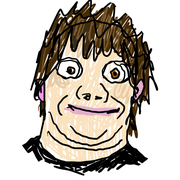
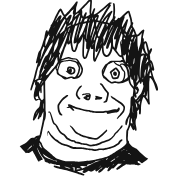
optimisation/jpeg-wepb/png-svg

diff --git a/art-site/src/data/paintings.ts b/art-site/src/data/paintings.ts
@@ -18,33 +18,33 @@ export type PaintingType = {
 };
 
 export const paintingList: PaintingType[] = [
-  { id: 1, title: "OBHOHOCHISHSYA", width: 90, height: 80, year: 2023, date: "29.10.2023", priceUAH: 20500, priceEUR: 400, available: true, images: ["/paintings/full/a.jpg", "/paintings/full/a-close-cc.jpg", "/paintings/full/a-room.jpg", "/paintings/full/a-live.jpg"] },
-  { id: 2, title: "DISKOTEKA", width: 70, height: 80, year: 2024, date: "02.09.2024", priceUAH: 20500, priceEUR: 400, available: true, images: ["/paintings/full/b.jpg", "/paintings/full/b-close-cc.jpg", "/paintings/full/b-room.jpg", "/paintings/full/b-me.jpg"] },
-  { id: 3, title: "HOMECOMING", width: 80, height: 100, priceUAH: 25500, priceEUR: 500, available: true, images: ["/paintings/full/c.jpg", "/paintings/full/c-closeB1-cc.jpg", "/paintings/full/c-closeB2-cc.jpg", "/paintings/full/c-room2.jpg"] },
-  { id: 4, title: "GOBLIN", width: 40, height: 50, year: 2026, date: "11.10.2026", priceUAH: 9000, priceEUR: 175, available: true, images: ["/paintings/full/d.jpg", "/paintings/full/d-closeB.jpg", "/paintings/full/d-room.jpg"] },
-  { id: 5, title: "MAYDANCHIK", width: 40, height: 60, year: 2025, date: "12.04.2025", priceUAH: 9500, priceEUR: 190, available: true, images: ["/paintings/full/e.jpg", "/paintings/full/e-close1-cc.jpg", "/paintings/full/e-close2-cc.jpg", "/paintings/full/e-room.jpg"] },
-  { id: 6, title: "THE HOST", width: 30, height: 40, year: 2023, date: "21.06.2023", priceUAH: 5000, priceEUR: 100, available: true, images: ["/paintings/full/f2.jpg", "/paintings/full/f2-closeB-cc.jpg", "/paintings/full/f2-room.jpg"] },
-  { id: 7, title: "SILENT HEAVEN", width: 60, height: 85, year: 2025, date: "26.04.2025", priceUAH: 20500, priceEUR: 400, available: true, images: ["/paintings/full/g.jpg", "/paintings/full/g-close-cc.jpg", "/paintings/full/g-room.jpg"] },
-  { id: 8, title: "RUSH HOUR", width: 90, height: 70, year: 2026, date: "10.11.2026", priceUAH: 19500, priceEUR: 380, available: true, images: ["/paintings/full/h2.jpg", "/paintings/full/h2-room.jpg", "/paintings/full/h2-me.jpg"] },
+  { id: 1, title: "OBHOHOCHISHSYA", width: 90, height: 80, year: 2023, date: "29.10.2023", priceUAH: 20500, priceEUR: 400, available: true, images: ["/paintings/full/a.webp", "/paintings/full/a-close-cc.webp", "/paintings/full/a-room.webp", "/paintings/full/a-live.webp"] },
+  { id: 2, title: "DISKOTEKA", width: 70, height: 80, year: 2024, date: "02.09.2024", priceUAH: 20500, priceEUR: 400, available: true, images: ["/paintings/full/b.webp", "/paintings/full/b-close-cc.webp", "/paintings/full/b-room.webp", "/paintings/full/b-me.webp"] },
+  { id: 3, title: "HOMECOMING", width: 80, height: 100, priceUAH: 25500, priceEUR: 500, available: true, images: ["/paintings/full/c.webp", "/paintings/full/c-closeB1-cc.webp", "/paintings/full/c-closeB2-cc.webp", "/paintings/full/c-room2.webp"] },
+  { id: 4, title: "GOBLIN", width: 40, height: 50, year: 2026, date: "11.10.2026", priceUAH: 9000, priceEUR: 175, available: true, images: ["/paintings/full/d.webp", "/paintings/full/d-closeB.webp", "/paintings/full/d-room.webp"] },
+  { id: 5, title: "MAYDANCHIK", width: 40, height: 60, year: 2025, date: "12.04.2025", priceUAH: 9500, priceEUR: 190, available: true, images: ["/paintings/full/e.webp", "/paintings/full/e-close1-cc.webp", "/paintings/full/e-close2-cc.webp", "/paintings/full/e-room.webp"] },
+  { id: 6, title: "THE HOST", width: 30, height: 40, year: 2023, date: "21.06.2023", priceUAH: 5000, priceEUR: 100, available: true, images: ["/paintings/full/f2.webp", "/paintings/full/f2-closeB-cc.webp", "/paintings/full/f2-room.webp"] },
+  { id: 7, title: "SILENT HEAVEN", width: 60, height: 85, year: 2025, date: "26.04.2025", priceUAH: 20500, priceEUR: 400, available: true, images: ["/paintings/full/g.webp", "/paintings/full/g-close-cc.webp", "/paintings/full/g-room.webp"] },
+  { id: 8, title: "RUSH HOUR", width: 90, height: 70, year: 2026, date: "10.11.2026", priceUAH: 19500, priceEUR: 380, available: true, images: ["/paintings/full/h2.webp", "/paintings/full/h2-room.webp", "/paintings/full/h2-me.webp"] },
 
-  { id: 9, title: "TRAKTOR", width: 30, height: 40, year: 2023, date: "29.08.2023", priceUAH: 5000, priceEUR: 100, available: true, images: ["/paintings/full/i.jpg", "/paintings/full/i-close-cc.jpg", "/paintings/full/i-room.jpg"] },
-  { id: 10, title: "KALYAKI-MALYAKI", width: 40, height: 50, year: 2023, date: "29.08.2023", priceUAH: 2500, priceEUR: 45, available: true, images: ["/paintings/full/o2.jpg", "/paintings/full/o2-close-cc.jpg", "/paintings/full/o2-room.jpg"] },
+  { id: 9, title: "TRAKTOR", width: 30, height: 40, year: 2023, date: "29.08.2023", priceUAH: 5000, priceEUR: 100, available: true, images: ["/paintings/full/i.webp", "/paintings/full/i-close-cc.webp", "/paintings/full/i-room.webp"] },
+  { id: 10, title: "KALYAKI-MALYAKI", width: 40, height: 50, year: 2023, date: "29.08.2023", priceUAH: 2500, priceEUR: 45, available: true, images: ["/paintings/full/o2.webp", "/paintings/full/o2-close-cc.webp", "/paintings/full/o2-room.webp"] },
 
   // Роботи з Instagram, які не продаються
 
-  { id: 11, title: "BLUE", width: 0, height: 0, available: false, images: ["/paintings/11.jpg"], photoRatio: 0.693 },
-  { id: 12, title: "APARTMENT", width: 0, height: 0, year: 2024, available: false, images: ["/paintings/12.jpg"], photoRatio: 0.71 },
-  { id: 13, title: "TINY GARDEN", width: 0, height: 0, available: false, images: ["/paintings/full/m2.jpg"], photoRatio: 0.992 },
-  { id: 14, title: "PODARUNOK", width: 0, height: 0, available: false, images: ["/paintings/full/n.jpg"], photoRatio: 0.994 },
-  { id: 15, title: "RYABZIK", width: 0, height: 0, year: 2023, available: false, images: ["/paintings/full/j2.jpg"], photoRatio: 0.8 },
-  { id: 16, title: "SHTUKA", width: 0, height: 0, year: 2023, available: false, images: ["/paintings/full/p.jpg"], photoRatio: 0.789 },
-  { id: 17, title: "01", width: 0, height: 0, year: 2023, available: false, images: ["/paintings/full/q.jpg", "/paintings/full/q-live.jpg"], photoRatio: 0.801 },
-  { id: 18, title: "HTO", width: 0, height: 0, available: false, images: ["/paintings/full/w.jpg"], photoRatio: 0.806 },
-  { id: 19, title: "BROTHER", width: 0, height: 0, available: false, images: ["/paintings/full/s.jpg"], photoRatio: 0.996 },
-  { id: 20, title: "NICHO", width: 0, height: 0, available: false, images: ["/paintings/full/t2.jpg"], photoRatio: 0.976 },
-  { id: 21, title: "PRIVET", width: 0, height: 0, available: false, images: ["/paintings/full/u.jpg"], photoRatio: 0.961 },
-  { id: 22, title: "FINALE", width: 0, height: 0, available: false, images: ["/paintings/full/v.jpg"], photoRatio: 1.122 },
-  { id: 23, title: "?", width: 0, height: 0, available: false, images: ["/paintings/full/r.jpg"], photoRatio: 0.998 },
+  { id: 11, title: "BLUE", width: 0, height: 0, available: false, images: ["/paintings/full/k.webp"], photoRatio: 0.693 },
+  { id: 12, title: "APARTMENT", width: 0, height: 0, year: 2024, available: false, images: ["/paintings/full/l.webp"], photoRatio: 0.71 },
+  { id: 13, title: "TINY GARDEN", width: 0, height: 0, available: false, images: ["/paintings/full/m2.webp"], photoRatio: 0.992 },
+  { id: 14, title: "PODARUNOK", width: 0, height: 0, available: false, images: ["/paintings/full/n.webp"], photoRatio: 0.994 },
+  { id: 15, title: "RYABZIK", width: 0, height: 0, year: 2023, available: false, images: ["/paintings/full/j2.webp"], photoRatio: 0.8 },
+  { id: 16, title: "SHTUKA", width: 0, height: 0, year: 2023, available: false, images: ["/paintings/full/p.webp"], photoRatio: 0.789 },
+  { id: 17, title: "01", width: 0, height: 0, year: 2023, available: false, images: ["/paintings/full/q.webp", "/paintings/full/q-live.webp"], photoRatio: 0.801 },
+  { id: 18, title: "HTO", width: 0, height: 0, available: false, images: ["/paintings/full/w.webp"], photoRatio: 0.806 },
+  { id: 19, title: "BROTHER", width: 0, height: 0, available: false, images: ["/paintings/full/s.webp"], photoRatio: 0.996 },
+  { id: 20, title: "NICHO", width: 0, height: 0, available: false, images: ["/paintings/full/t2.webp"], photoRatio: 0.976 },
+  { id: 21, title: "PRIVET", width: 0, height: 0, available: false, images: ["/paintings/full/u.webp"], photoRatio: 0.961 },
+  { id: 22, title: "FINALE", width: 0, height: 0, available: false, images: ["/paintings/full/v.webp"], photoRatio: 1.122 },
+  { id: 23, title: "?", width: 0, height: 0, available: false, images: ["/paintings/full/r.webp"], photoRatio: 0.998 },
 ];
 
 

diff --git a/art-site/src/App.css b/art-site/src/App.css
@@ -184,11 +184,14 @@
   background: #fff; /* біла смуга підвалу */
 }
 
+/* 4 однакові колонки, текст у кожній по центру — посилання стоять рівномірно,
+   а весь блок рівно посередині сторінки */
 .footer-links {
-  display: flex;
-  flex-wrap: wrap;
-  justify-content: center;
-  gap: 12px 72px; /* ширші проміжки між посиланнями */
+  display: grid;
+  grid-template-columns: repeat(4, 1fr);
+  justify-items: center;
+  width: min(760px, 100%);
+  gap: 12px;
 }
 
 .footer .nav-link {
@@ -571,8 +574,10 @@
     font-size: 12px;
   }
 
+  /* на телефоні — 2 × 2 */
   .footer-links {
-    gap: 10px 20px;
+    grid-template-columns: repeat(2, 1fr);
+    gap: 16px 12px;
   }
 
   .modal-backdrop {

diff --git a/art-site/index.html b/art-site/index.html
@@ -2,14 +2,14 @@
 <html lang="uk">
   <head>
     <meta charset="UTF-8" />
+    <link rel="icon" type="image/svg+xml" href="/logo.svg" />
     <link rel="icon" type="image/png" sizes="32x32" href="/favicon-32.png" />
     <link rel="icon" type="image/png" sizes="48x48" href="/favicon-48.png" />
     <link rel="apple-touch-icon" href="/apple-touch-icon.png" />
     <meta name="viewport" content="width=device-width, initial-scale=1.0" />
     <title>kucherenkoart</title>
     <meta name="description" content="Original paintings by Ostap Kucherenko — acrylic and oil pastel on canvas." />
-    <meta name="theme-color" content="#3a1512" />
-    <link rel="preload" as="image" href="/video/clouds-poster.jpg" />
+    <meta name="theme-color" content="#ffffff" />
   </head>
   <body>
     <div id="root"></div>

diff --git a/art-site/src/components/Header.tsx b/art-site/src/components/Header.tsx
@@ -9,7 +9,7 @@ function Header(props: { onContactClick: () => void }) {
     <header className="header">
       <div className="header-side">
         {/* Лого-аватарка (той самий малюнок, що й іконка у вкладці браузера) */}
-        <img className="logo" src="/logo.png" alt="Ostap Kucherenko" />
+        <img className="logo" src="/logo.svg" alt="Ostap Kucherenko" />
         <a href={links.instagram} target="_blank" rel="noreferrer" aria-label="Instagram" className="icon-link">
           <PiInstagramLogo />
         </a>

diff --git a/art-site/src/components/PageModal.tsx b/art-site/src/components/PageModal.tsx
@@ -22,7 +22,7 @@ function PageModal(props: { page: PageKey; onClose: () => void }) {
       {/* Фото тільки для «Про мене» */}
       {isAbout && (
         <figure className="about-photo">
-          <img src="/about.jpg" alt="Ostap Kucherenko" />
+          <img src="/about.webp" alt="Ostap Kucherenko" />
         </figure>
       )}
       {text}
